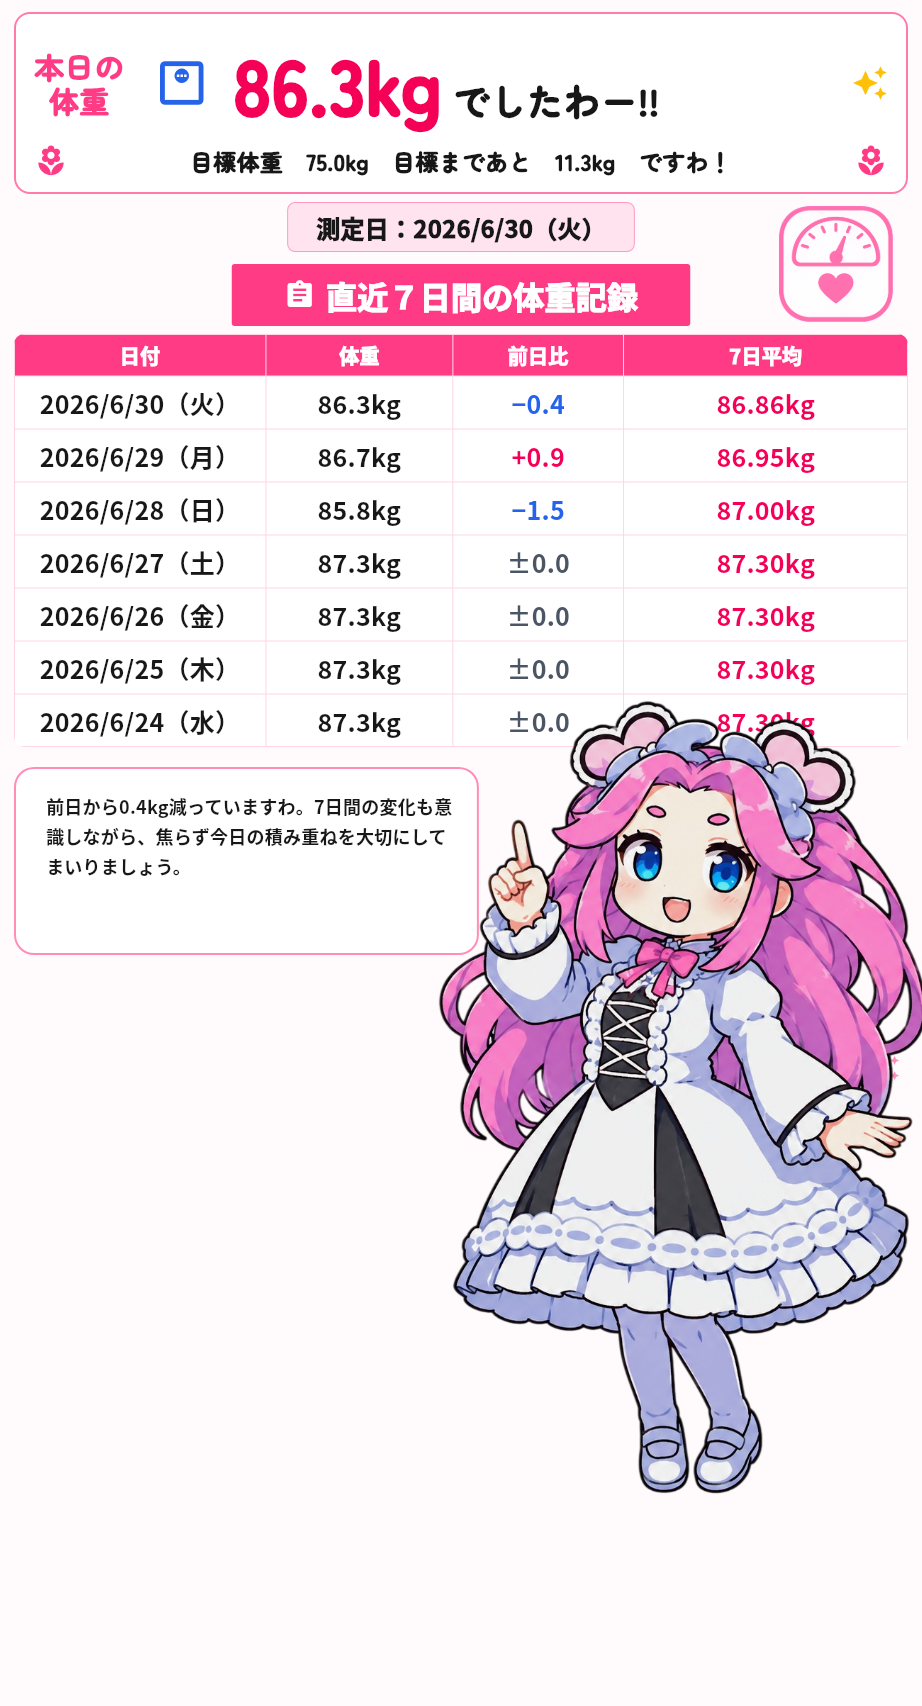
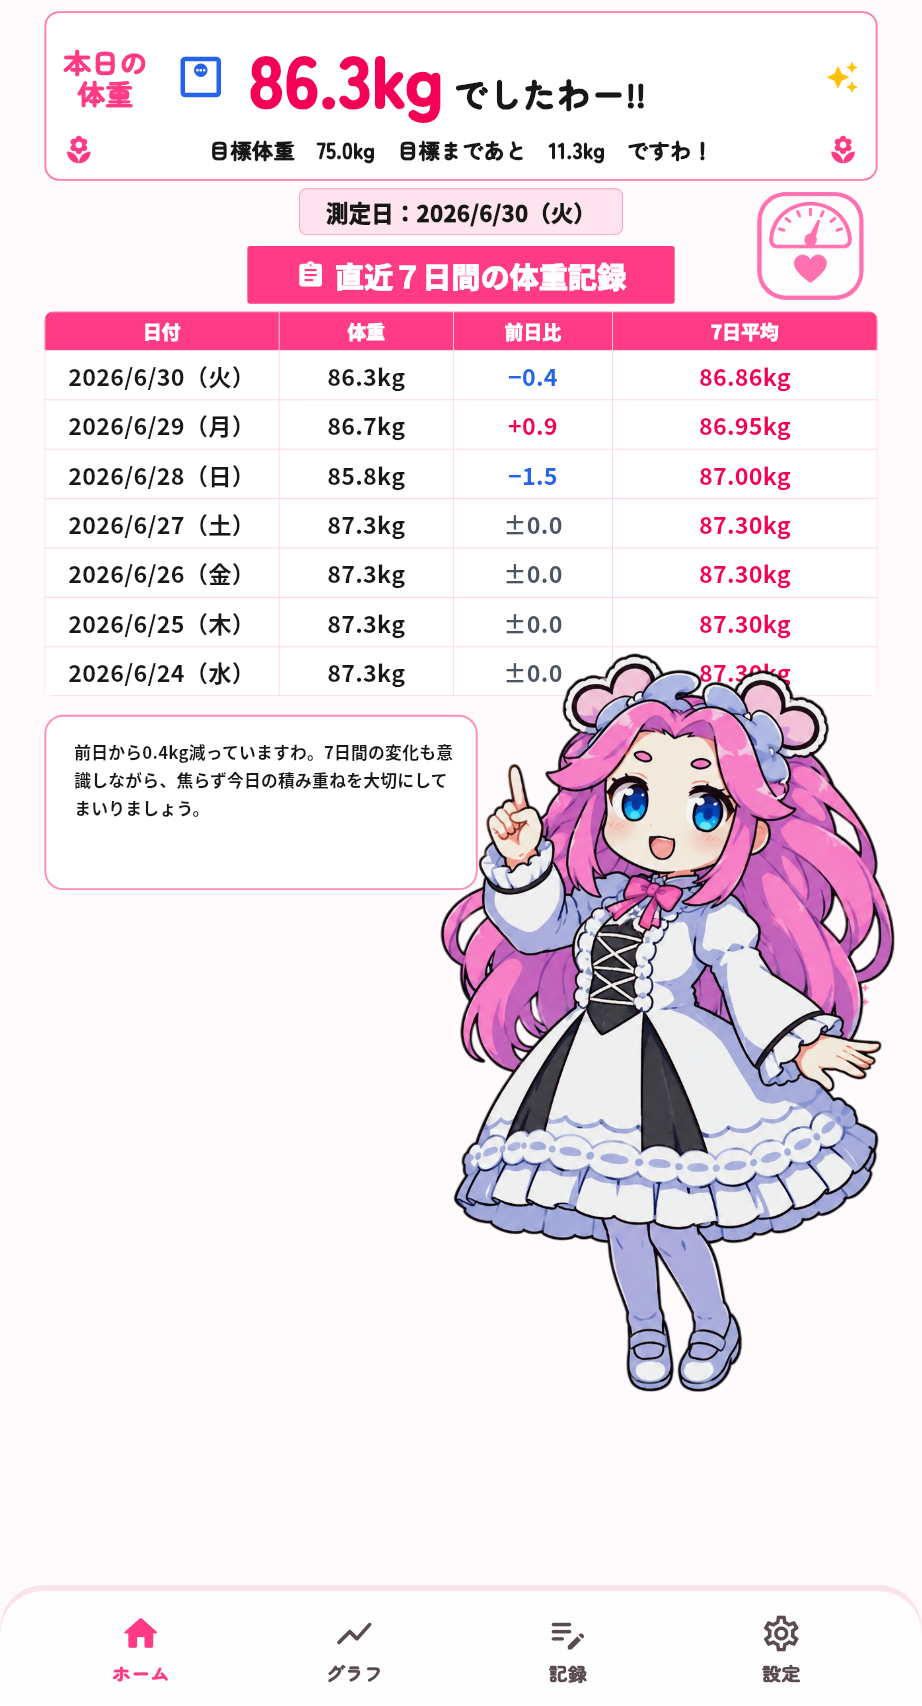
Add report screen footer navigation

diff --git a/lib/screens/report_screen.dart b/lib/screens/report_screen.dart
@@ -6,6 +6,7 @@ import '../providers/ai_comment_providers.dart';
 import '../providers/weight_providers.dart';
 import '../theme/app_theme.dart';
 import 'home_screen.dart';
+import 'settings_screen.dart';
 
 const _reportPink = Color(0xFFFF3B86);
 const _deepPink = Color(0xFFF50057);
@@ -32,6 +33,144 @@ class ReportScreen extends ConsumerWidget {
           error: (error, stackTrace) =>
               Center(child: Text('読み込みに失敗しました: $error')),
           loading: () => const Center(child: CircularProgressIndicator()),
+        ),
+      ),
+      bottomNavigationBar: const _ReportFooter(),
+    );
+  }
+}
+
+class _ReportFooter extends StatelessWidget {
+  const _ReportFooter();
+
+  @override
+  Widget build(BuildContext context) {
+    return LayoutBuilder(
+      builder: (context, constraints) {
+        final compact = constraints.maxWidth < 600;
+        return Container(
+          height: compact ? 84 : 116,
+          decoration: BoxDecoration(
+            color: Colors.white.withValues(alpha: 0.96),
+            borderRadius: BorderRadius.vertical(
+              top: Radius.circular(compact ? 28 : 44),
+            ),
+            border: const Border(top: BorderSide(color: Color(0xFFFFE2EC))),
+            boxShadow: const [
+              BoxShadow(
+                color: Color(0x22D54A7F),
+                blurRadius: 18,
+                offset: Offset(0, -5),
+              ),
+            ],
+          ),
+          child: SafeArea(
+            top: false,
+            minimum: EdgeInsets.symmetric(horizontal: compact ? 8 : 34),
+            child: Row(
+              children: [
+                Expanded(
+                  child: _FooterDestination(
+                    label: 'ホーム',
+                    icon: Icons.home_rounded,
+                    selected: true,
+                    compact: compact,
+                    onPressed: () {},
+                  ),
+                ),
+                Expanded(
+                  child: _FooterDestination(
+                    label: 'グラフ',
+                    icon: Icons.show_chart_rounded,
+                    compact: compact,
+                    onPressed: () {
+                      ScaffoldMessenger.of(context).showSnackBar(
+                        const SnackBar(content: Text('グラフ画面は準備中です')),
+                      );
+                    },
+                  ),
+                ),
+                Expanded(
+                  child: _FooterDestination(
+                    label: '記録',
+                    icon: Icons.edit_note_rounded,
+                    compact: compact,
+                    onPressed: () {
+                      Navigator.of(context).pushReplacement(
+                        MaterialPageRoute<void>(
+                          builder: (_) => const HomeScreen(forceInput: true),
+                        ),
+                      );
+                    },
+                  ),
+                ),
+                Expanded(
+                  child: _FooterDestination(
+                    label: '設定',
+                    icon: Icons.settings_outlined,
+                    compact: compact,
+                    onPressed: () {
+                      Navigator.of(context).push(
+                        MaterialPageRoute<void>(
+                          builder: (_) => const SettingsScreen(),
+                        ),
+                      );
+                    },
+                  ),
+                ),
+              ],
+            ),
+          ),
+        );
+      },
+    );
+  }
+}
+
+class _FooterDestination extends StatelessWidget {
+  const _FooterDestination({
+    required this.label,
+    required this.icon,
+    required this.compact,
+    required this.onPressed,
+    this.selected = false,
+  });
+
+  final String label;
+  final IconData icon;
+  final bool compact;
+  final bool selected;
+  final VoidCallback onPressed;
+
+  @override
+  Widget build(BuildContext context) {
+    final color = selected ? _reportPink : const Color(0xFF594B4E);
+    return Semantics(
+      selected: selected,
+      button: true,
+      label: label,
+      child: InkWell(
+        onTap: onPressed,
+        borderRadius: BorderRadius.circular(24),
+        child: Padding(
+          padding: EdgeInsets.symmetric(vertical: compact ? 6 : 10),
+          child: Column(
+            mainAxisAlignment: MainAxisAlignment.center,
+            mainAxisSize: MainAxisSize.min,
+            children: [
+              Icon(icon, color: color, size: compact ? 30 : 43),
+              SizedBox(height: compact ? 2 : 4),
+              Text(
+                label,
+                style: TextStyle(
+                  color: color,
+                  fontFamily: reportAccentFontFamily,
+                  fontSize: compact ? 12 : 19,
+                  fontWeight: FontWeight.w900,
+                ),
+              ),
+            ],
+          ),
         ),
       ),
     );

diff --git a/test/home_screen_golden_test.dart b/test/home_screen_golden_test.dart
@@ -440,6 +440,10 @@ void main() {
       ),
     );
     await tester.pumpAndSettle();
+    await tester.runAsync(() async {
+      await Future<void>.delayed(const Duration(seconds: 1));
+    });
+    await tester.pumpAndSettle();
 
     expect(find.bySemanticsLabel('レポート応援キャラクター'), findsOneWidget);
     expect(
@@ -452,6 +456,10 @@ void main() {
     expect(find.text('直近７日間の体重記録'), findsOneWidget);
     expect(find.bySemanticsLabel('体重入力画面を開く'), findsOneWidget);
     expect(find.bySemanticsLabel('体重入力アイコン'), findsOneWidget);
+    expect(find.text('ホーム'), findsOneWidget);
+    expect(find.text('グラフ'), findsOneWidget);
+    expect(find.text('記録'), findsOneWidget);
+    expect(find.text('設定'), findsOneWidget);
     expect(find.text('日付'), findsOneWidget);
     expect(find.textContaining('JST'), findsNothing);
     expect(find.text('🌸 今日のひとこと♪'), findsNothing);
